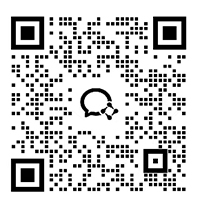
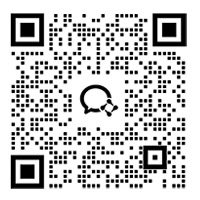
二维码调整改好，按寻一要求关闭开发者工具

diff --git a/src/app/consultation/page.tsx b/src/app/consultation/page.tsx
@@ -139,30 +139,12 @@ export default function ConsultationPage() {
 
               {/* 二维码区域 */}
               <div className="grid grid-cols-1 md:grid-cols-2 gap-8 md:gap-12">
-                {/* 正哲师姐 */}
+                {/* 芷暄师妹 */}
                 <div className="text-center">
                   <div className="mb-6">
                     <div className="w-60 h-60 mx-auto bg-gray-100 rounded-lg flex items-center justify-center">
                       <Image
                         src="/qr-codes/zhengzhe.png"
-                        alt="丁火师姐微信二维码"
-                        width={240}
-                        height={240}
-                        className="rounded-lg"
-                      />
-                    </div>
-                  </div>
-                  <h3 className="text-xl font-medium text-gray-800">
-                    丁火师姐
-                  </h3>
-                </div>
-
-                {/* 丁火师妹 */}
-                <div className="text-center">
-                  <div className="mb-6">
-                    <div className="w-60 h-60 mx-auto bg-gray-100 rounded-lg flex items-center justify-center">
-                      <Image
-                        src="/qr-codes/dinghuo.png"
                         alt="芷暄师妹微信二维码"
                         width={240}
                         height={240}
@@ -172,6 +154,24 @@ export default function ConsultationPage() {
                   </div>
                   <h3 className="text-xl font-medium text-gray-800">
                     芷暄师妹
+                  </h3>
+                </div>
+
+                {/* 丁火师妹 */}
+                <div className="text-center">
+                  <div className="mb-6">
+                    <div className="w-60 h-60 mx-auto bg-gray-100 rounded-lg flex items-center justify-center">
+                      <Image
+                        src="/qr-codes/dinghuo.png"
+                        alt="丁火师妹微信二维码"
+                        width={240}
+                        height={240}
+                        className="rounded-lg"
+                      />
+                    </div>
+                  </div>
+                  <h3 className="text-xl font-medium text-gray-800">
+                    丁火师妹
                   </h3>
                 </div>
               </div>

diff --git a/src/app/dashboard/page.tsx b/src/app/dashboard/page.tsx
@@ -1626,7 +1626,7 @@ export default function DashboardPage() {
                   <div className="w-48 h-48 bg-gray-100 rounded-xl flex items-center justify-center mb-4 shadow-sm">
                       <Image
                         src="/images/consultation-qr-1.jpg"
-                        alt="丁火师姐微信二维码"
+                        alt="芷暄师妹微信二维码"
                         width={300}
                         height={300}
                         className="w-full h-full object-contain rounded-xl"
@@ -1641,7 +1641,7 @@ export default function DashboardPage() {
                       <div className="text-sm">客服1</div>
                     </div>
                   </div>
-                  <p className="text-sm font-medium text-gray-700">丁火师姐</p>
+                  <p className="text-sm font-medium text-gray-700">芷暄师妹</p>
                 </div>
 
                 {/* 第二个客服二维码 */}
@@ -1649,7 +1649,7 @@ export default function DashboardPage() {
                   <div className="w-48 h-48 bg-gray-100 rounded-xl flex items-center justify-center mb-4 shadow-sm">
                                           <Image
                         src="/images/consultation-qr-2.jpg"
-                        alt="芷暄师妹微信二维码"
+                        alt="丁火师妹微信二维码"
                         width={300}
                         height={300}
                         className="w-full h-full object-contain rounded-xl"
@@ -1664,7 +1664,7 @@ export default function DashboardPage() {
                       <div className="text-sm">客服2</div>
                     </div>
                   </div>
-                  <p className="text-sm font-medium text-gray-700">芷暄师妹</p>
+                  <p className="text-sm font-medium text-gray-700">丁火师妹</p>
                 </div>
               </div>
               <p className="text-center text-gray-500 text-sm mt-6">扫描二维码添加客服微信，获得专业咨询服务</p>

diff --git a/src/app/page.tsx b/src/app/page.tsx
@@ -102,7 +102,7 @@ export default function HomePage() {
                     alt="客服微信1"
                     className="w-20 h-20 mx-auto mb-2"
                   />
-                  <p className="text-xs text-gray-400">丁火师姐</p>
+                  <p className="text-xs text-gray-400">芷暄师妹</p>
                 </div>
                 <div className="text-center">
                   <img
@@ -110,7 +110,7 @@ export default function HomePage() {
                     alt="客服微信2"
                     className="w-20 h-20 mx-auto mb-2"
                   />
-                  <p className="text-xs text-gray-400">芷暄</p>
+                  <p className="text-xs text-gray-400">丁火师妹</p>
                 </div>
               </div>
             </div>

diff --git a/src/app/register/page.tsx b/src/app/register/page.tsx
@@ -119,7 +119,7 @@ function WechatQRModal({ isOpen, onClose }: WechatQRModalProps) {
                   <div className="text-xs">二维码1</div>
                 </div>
               </div>
-              <div className="text-xs text-gray-600">丁火师姐</div>
+              <div className="text-xs text-gray-600">芷暄师妹</div>
             </div>
 
             {/* 第二个二维码 */}
@@ -141,7 +141,7 @@ function WechatQRModal({ isOpen, onClose }: WechatQRModalProps) {
                   <div className="text-xs">二维码2</div>
                 </div>
               </div>
-              <div className="text-xs text-gray-600">芷暄师妹</div>
+              <div className="text-xs text-gray-600">丁火师妹</div>
             </div>
           </div>
 

diff --git a/src/utils/dev-logger.ts b/src/utils/dev-logger.ts
@@ -81,8 +81,9 @@ export const disableDevTools = () => {
           devtools.open = true;
           // 如果检测到开发者工具打开，可以采取行动
           // 例如：跳转到其他页面或显示警告
-          alert('开发者工具已被禁用');
-          window.location.href = '/';
+          // alert('开发者工具已被禁用'); // 已注释掉弹窗
+          // window.location.href = '/'; // 已注释掉页面跳转
+          console.warn('检测到开发者工具被打开'); // 仅在控制台记录
         }
       } else {
         devtools.open = false;

diff --git a/src/app/layout.tsx b/src/app/layout.tsx
@@ -1,7 +1,7 @@
 import './globals.css'
 import type { Metadata } from 'next'
 import { Inter } from 'next/font/google'
-import DevToolsProtection from '@/components/DevToolsProtection'
+// import DevToolsProtection from '@/components/DevToolsProtection'
 
 const inter = Inter({ subsets: ['latin'] })
 
@@ -19,9 +19,9 @@ export default function RootLayout({
   return (
     <html lang="zh-CN">
       <body className={inter.className}>
-        <DevToolsProtection />
+        {/* <DevToolsProtection /> */}
         {children}
       </body>
     </html>
   )
-} 
+}
